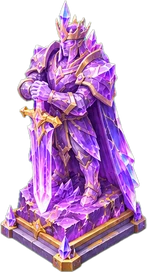
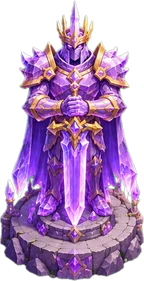
巨人王換正面圖，望住鏡頭
Claude-Session: https://claude.ai/code/session_01E2utfFQBUZUAHLnSXfgdjb

diff --git a/lib/themes.ts b/lib/themes.ts
@@ -95,7 +95,7 @@ export const CRYSTAL: Theme = {
       palace: [[143, 180], [194, 235], [218, 346], [259, 425], [300, 515]],
       knight: [[100, 147], [124, 232], [130, 277], [192, 369], [300, 486]],
       goddess: [[97, 150], [117, 237], [133, 289], [189, 366], [300, 474]],
-      titan: [[106, 156], [134, 221], [147, 272], [191, 347], [300, 491]],
+      titan: [[105, 152], [146, 221], [144, 281], [182, 352], [300, 488]],
       dragon: [[114, 138], [138, 208], [142, 258], [172, 329], [300, 477]],
       lion: [[100, 126], [131, 186], [155, 242], [180, 315], [300, 467]],
     },

diff --git a/public/sw.js b/public/sw.js
@@ -1,5 +1,5 @@
 // 大富翁 service worker: keeps the app shell and art so the board opens without a network.
-const CACHE = "dafuweng-v224";
+const CACHE = "dafuweng-v225";
 const SHELL = [
   "/",
   "/manifest.webmanifest",
